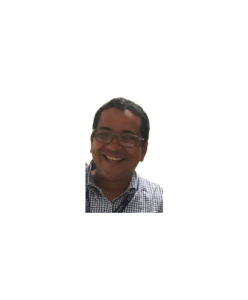
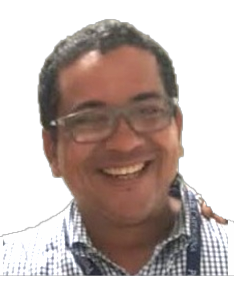
se añade la seccion de contacto

diff --git a/index.html b/index.html
@@ -7,10 +7,14 @@
     <title>Ney Perea Portafolio</title>
     <!-- Favicon -->
     <link rel="icon" type="image/x-icon" href="img/favicon.png">
-    <!--font-->
+    <!--fonts-->
     <link rel="preconnect" href="https://fonts.googleapis.com">
     <link rel="preconnect" href="https://fonts.gstatic.com" crossorigin>
     <link href="https://fonts.googleapis.com/css2?family=Arvo&display=swap" rel="stylesheet">
+    <link rel="preconnect" href="https://fonts.googleapis.com"><link rel="preconnect" href="https://fonts.gstatic.com" crossorigin><link href="https://fonts.googleapis.com/css2?family=Share+Tech+Mono&display=swap" rel="stylesheet">
+    
+    
+    <!--hojas de estilo-->
     <link rel="stylesheet" href="/css/style.css">
     <!--icons-->
     <link rel="stylesheet" href="https://cdn.jsdelivr.net/npm/bootstrap-icons@1.10.2/font/bootstrap-icons.css">
@@ -49,7 +53,7 @@
 
     <section class="hero align-items-stretch">
         <div class="main-hero d-flex flex-column justify-content-center align-items-center">
-            <img class="dev-img" src="img/coder1.jpg" alt="imagenHero">
+            <img class="dev-img" src="img/coder2.png" alt="imagenHero">
             <h1>Hola! soy <strong>Ney Perea</strong></h1>
             <h2>Desarrollador web y Electronico industrial</h2>
         </div>
@@ -235,15 +239,36 @@
             </div>
             <div class="carousel-inner">
                 <div class="carousel-item active">
-                    <!--por aqui voy -->
-
-                    <img src="img/imagenes/proyecto1.png" class="d-block w-100" alt="...">
+                    <!--unidad de slides-->
+                    <div class="container">
+                         <img src="img/imagenes/cliente1.svg" alt="imagenes clientes" class="testimonio-imagen ">   
+                        <p class=" testimonio-texto">Lorem ipsum dolor sit amet consectetur adipisicing elit. Corrupti, soluta?</p>
+                        <div class="testimonio-info">
+                            <p class="cliente">Gino</p>
+                            <p class="cargo">Gerente de proyectos</p>
+                        </div>
+                    </div>
+                    
                 </div>
                 <div class="carousel-item">
-                    <img src="img/imagenes/proyecto2.png" class="d-block w-100" alt="...">
+                    <div class="container">
+                        <img src="img/imagenes/cliente2.svg" alt="imagenes clientes" class="testimonio-imagen rounded-circle">   
+                       <p class=" testimonio-texto">Lorem ipsum dolor sit amet consectetur adipisicing elit. Corrupti, soluta?</p>
+                       <div class="testimonio-info">
+                           <p class="cliente">Nora</p>
+                           <p class="cargo">Marketing digital</p>
+                       </div>
+                   </div>
                 </div>
                 <div class="carousel-item">
-                    <img src="img/imagenes/proyecto3.png" class="d-block w-100" alt="...">
+                    <div class="container">
+                        <img src="img/imagenes/cliente3.svg" alt="imagenes clientes" class="testimonio-imagen rounded-circle">   
+                       <p class=" testimonio-texto">Lorem ipsum dolor sit amet consectetur adipisicing elit. Corrupti, soluta?</p>
+                       <div class="testimonio-info">
+                           <p class="cliente">Mendoza</p>
+                           <p class="cargo">Academico centro investigacion</p>
+                       </div>
+                   </div>
                 </div>
             </div>
             <button class="carousel-control-prev" type="button" data-bs-target="#testimonos-carrusel" data-bs-slide="prev">
@@ -256,8 +281,42 @@
             </button>
         </div>
 
-
     </section>
+<!--contacto-->
+<section class="contacto dark-sect">
+    <div class="container">
+        
+            <div class="row  text-center d-flex justify-content-evently rectangulo">
+                <div class="col-12 col-md-4 seccion-titulo">Hablemos</div>
+                <div  class="col-12 col-md-4">
+                   Ten la confianza que te ayudaré a materializar tus ideas!
+                </div>
+                <div class="col-12 col-md-4">
+                    <a href="mailto:nperea75@gmail.com">
+                        <button type="button">
+                            contacto
+                            <i class="bi bi-envelope-at-fill"></i>
+                        </button>
+                    </a>
+
+                </div>
+            
+
+        </div>
+    </div>
+</section>
+
+<!--footer-->
+
+
+<footer>
+
+    <div class=" container link-footer ">
+       <a href="https://youtu.be/QCw0L6FupQ0?t=15634" target="_blank"  >seccion testimonios</a>
+       
+    </div>
+    
+</footer>
 
 
 
@@ -269,12 +328,6 @@
 
 
 
-
-
-
-
-
-    <a href="https://youtu.be/QCw0L6FupQ0?t=15634" target="_blank">seccion testimonios</a>
     <script src="https://cdn.jsdelivr.net/npm/bootstrap@5.2.3/dist/js/bootstrap.bundle.min.js" integrity="sha384-kenU1KFdBIe4zVF0s0G1M5b4hcpxyD9F7jL+jjXkk+Q2h455rYXK/7HAuoJl+0I4" crossorigin="anonymous"></script>
 </body>
 

diff --git a/css/style.css b/css/style.css
@@ -196,8 +196,103 @@ p a:hover {
     font-size: 60px;
     margin: 10px;
 }
+/*testimomio*/
 
+.testimonios {
+    padding: 40px 40px 80px 40px;
+}
 
+.testimonios .carousel {
+    max-width: 800px;
+}
+
+.carousel-item {
+    height: 500px;
+}
+.carousel-item .container {
+    width: 100%;
+    height: 100%;
+    display: flex;
+    flex-direction: column;
+    align-items: center;
+    justify-content: center;
+}
+
+.testimonio-imagen{
+    height: 150px;
+    width: 150px;
+    margin: 10px 10px 20px 10px;
+    border-radius: 50%;
+}
+.testimonio-texto{
+    max-width: 70%;
+    font-size: 20px;
+    text-align: center;
+    font-family: 'Share Tech Mono', monospace;
+
+}
+.testimonio-info{
+    font-weight: bold;
+    text-align: center;
+}
+.testimonio-info p {
+    margin-bottom: 0;
+}
+.testimonio-info .cliente {
+    font-size: 1.2rem;
+}
+
+.testimonio-info .cargo {
+   font-size: 0.9rem;
+   color: #656060;
+}
+
+/*contacto*/
+.contacto .container{
+    max-width: 1100px;
+    min-height: 200px;
+    padding: 20px;
+}
+
+.contacto .rectangulo{
+    margin: -5rem;
+    background-color: rgb(13, 110, 253);
+    border-radius: 10px;
+    box-shadow: 0 1px 4px 1px white;
+    height: 100px;
+}
+.contacto .row{
+    width: 100%;
+    display: flex;
+    align-items: center;
+}
+.contacto .descripcion {
+    color: white;
+    font-size: 1.2rem;
+}
+.contacto .button{
+    color: white;
+    font-weight: bold;
+    background-color: transparent;
+    border: 2px solid white;
+    padding: 1.25em 2em;
+    margin-right: 10px;
+    border-radius:100px;
+    transition: all 0.2s ease-in-out;
+
+}
+
+.contacto .button i {
+    color: white;
+    font-size: 1.3rem;
+    transition: all 0.2s ease-in-out;
+}
+/*footer*/
+
+.link-footer {
+    font-size: 1.8rem;
+    text-align: center;
+}
 /* responsivo */
 
 @media screen and (max-width: 767px) {
@@ -221,17 +316,15 @@ p a:hover {
     }
 }
 
+@media screen and (max-width: 800px ) {
+    .testimonio-imagen{
+        height: 120px;
+        width: 120px;
 
-/*testimomio*/
+    }
+    .testimonio-texto{
 
-.testimonios {
-    padding: 40px 40px 80px 40px;
-}
-
-.testimonios .carousel {
-    max-width: 800px;
-}
-
-.carousel-item {
-    height: 500px;
+        font-size: 18px;
+    }
+    
 }
